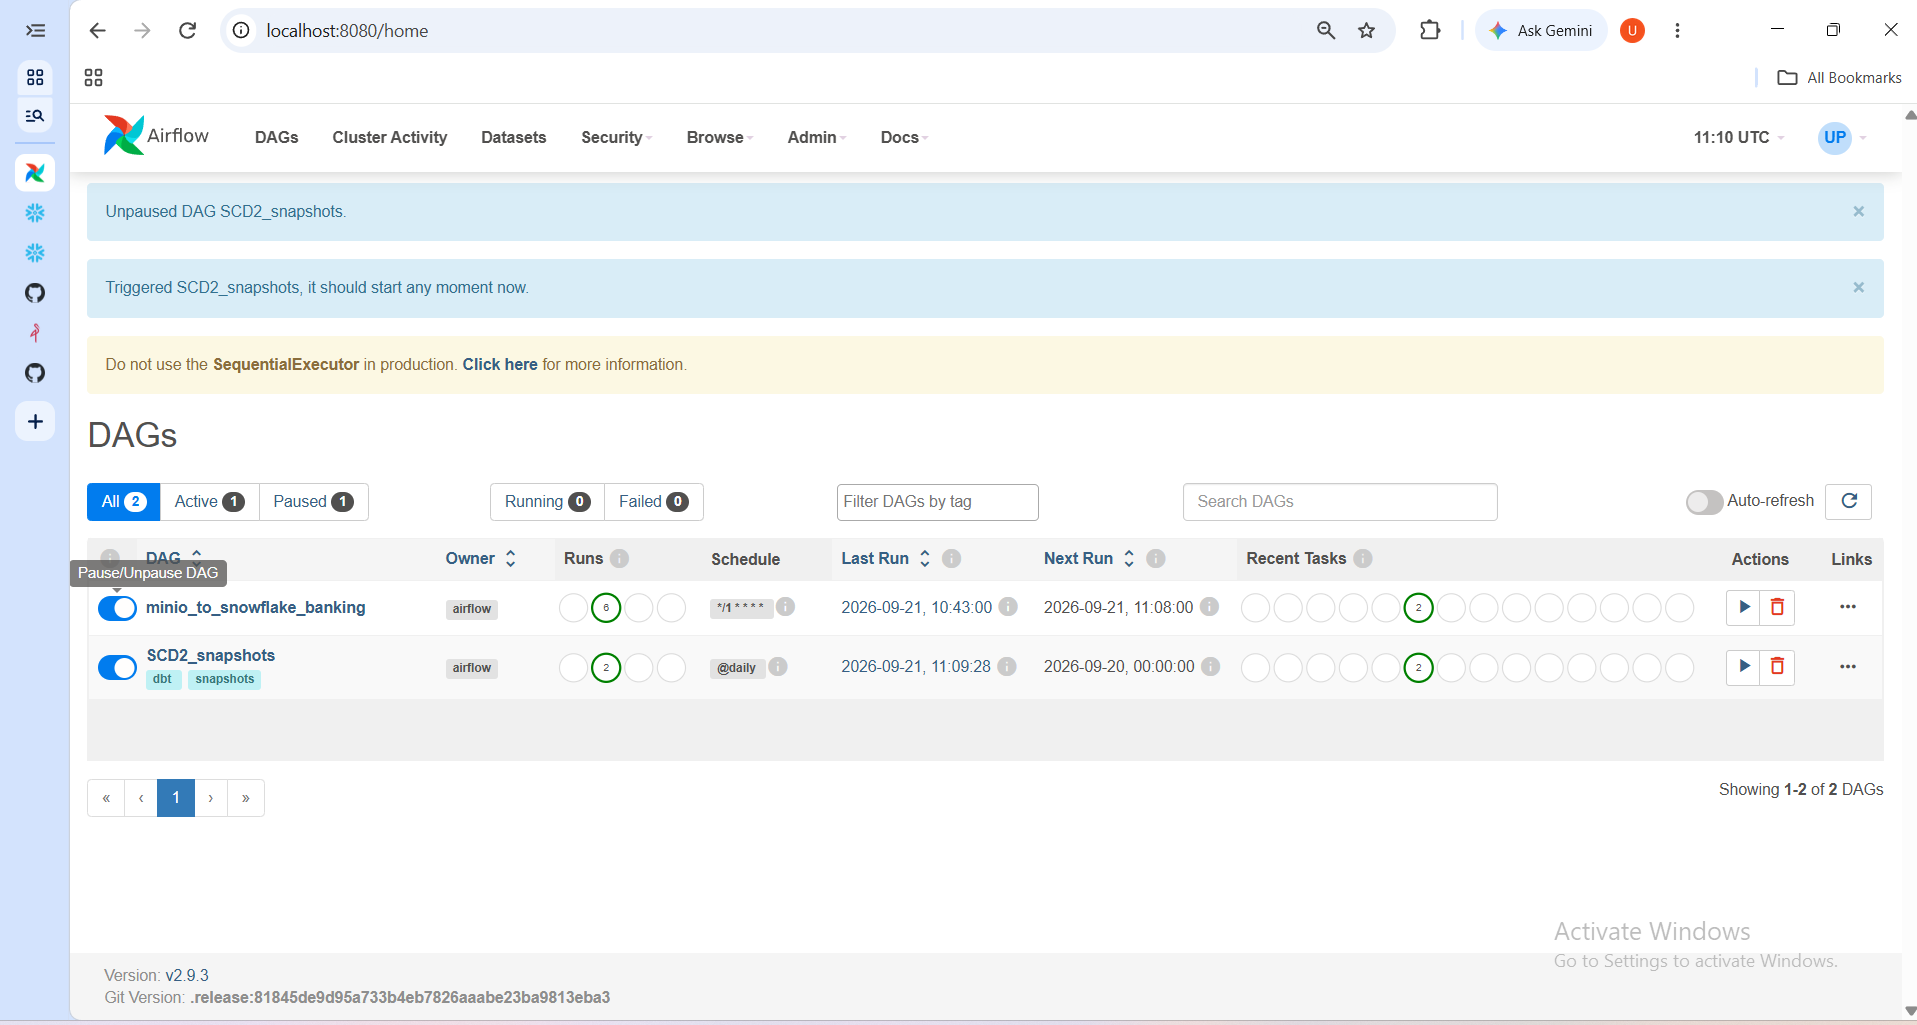
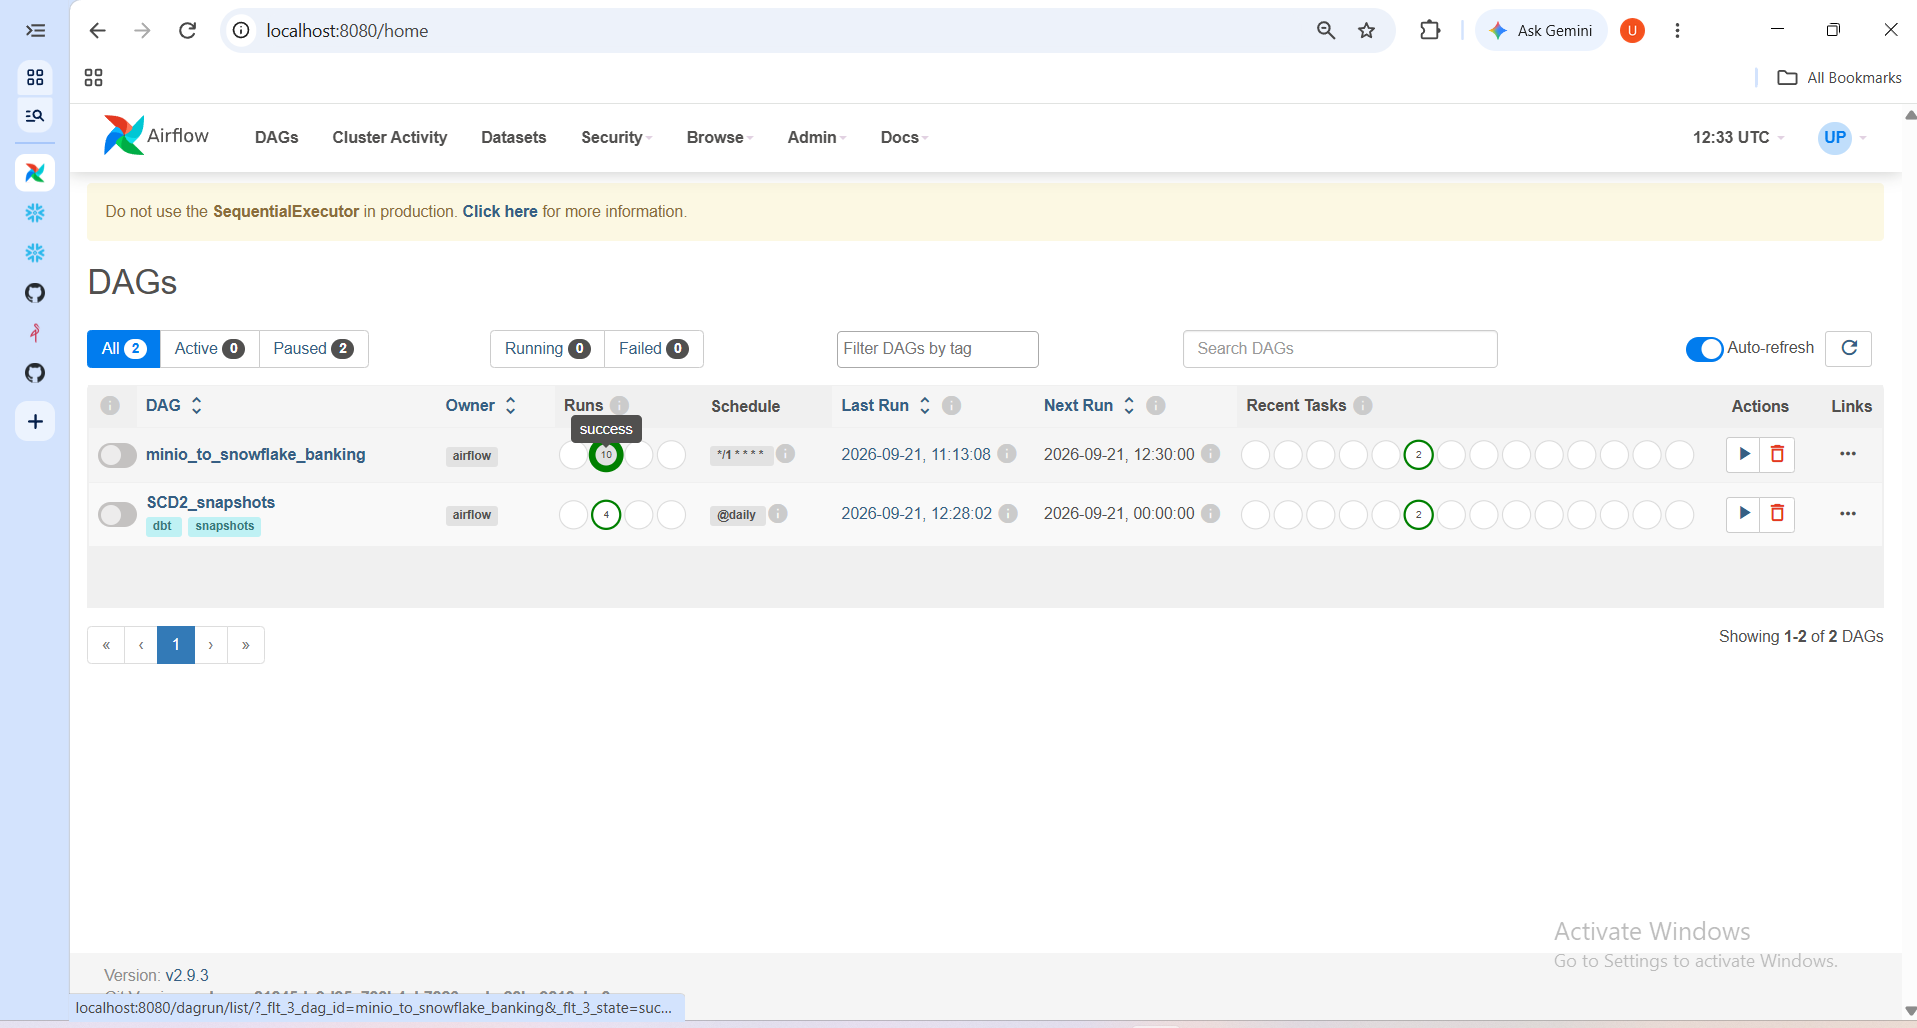
Update SCD snapshot workflow and screenshots

diff --git a/docker/dags/scd_snapshots.py b/docker/dags/scd_snapshots.py
@@ -12,21 +12,27 @@ default_args = {
 with DAG(
     dag_id="SCD2_snapshots",
     default_args=default_args,
-    description="Run dbt snapshots for SCD2",
-    schedule_interval="@daily",     # or "@hourly" depending on your needs
+    description="Run dbt models and SCD2 snapshots",
+    schedule_interval="@daily",
     start_date=datetime(2025, 9, 1),
     catchup=False,
     tags=["dbt", "snapshots"],
 ) as dag:
 
-    dbt_snapshot = BashOperator(
-        task_id="dbt_snapshot",
-        bash_command="cd /opt/airflow/banking_dbt && dbt snapshot --profiles-dir /home/airflow/.dbt"
-        )
-    dbt_run_marts = BashOperator(
-        task_id="dbt_run_marts",
-        bash_command="cd /opt/airflow/banking_dbt && dbt run --select marts --profiles-dir /home/airflow/.dbt"
+    dbt_run = BashOperator(
+        task_id="dbt_run",
+        bash_command=(
+            "cd /opt/airflow/banking_dbt && "
+            "dbt run --profiles-dir /home/airflow/.dbt"
+        ),
     )
 
+    dbt_snapshot = BashOperator(
+        task_id="dbt_snapshot",
+        bash_command=(
+            "cd /opt/airflow/banking_dbt && "
+            "dbt snapshot --profiles-dir /home/airflow/.dbt"
+        ),
+    )
 
-    dbt_snapshot
+    dbt_run >> dbt_snapshot
